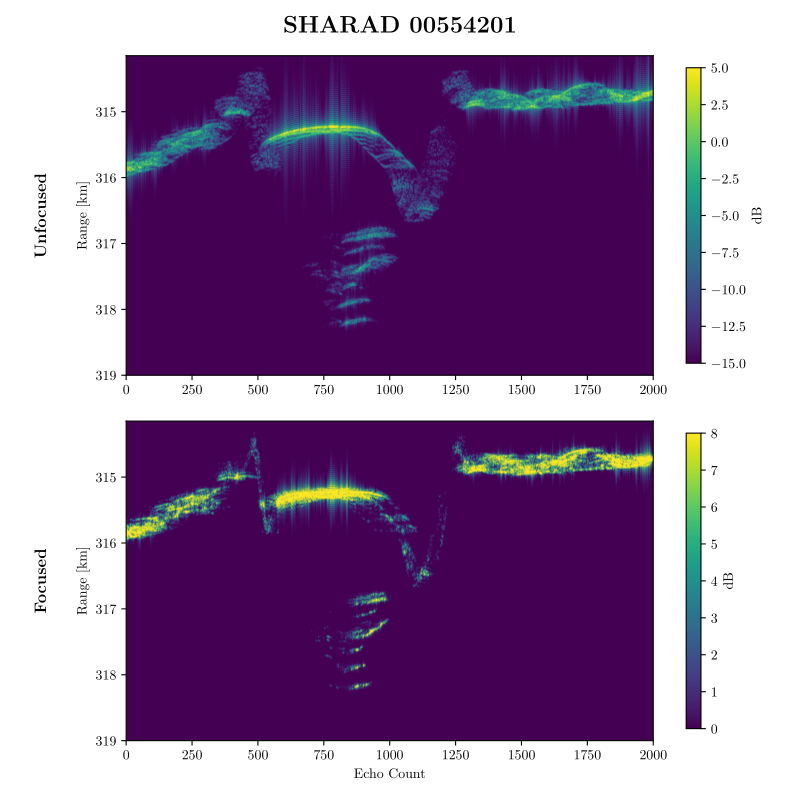
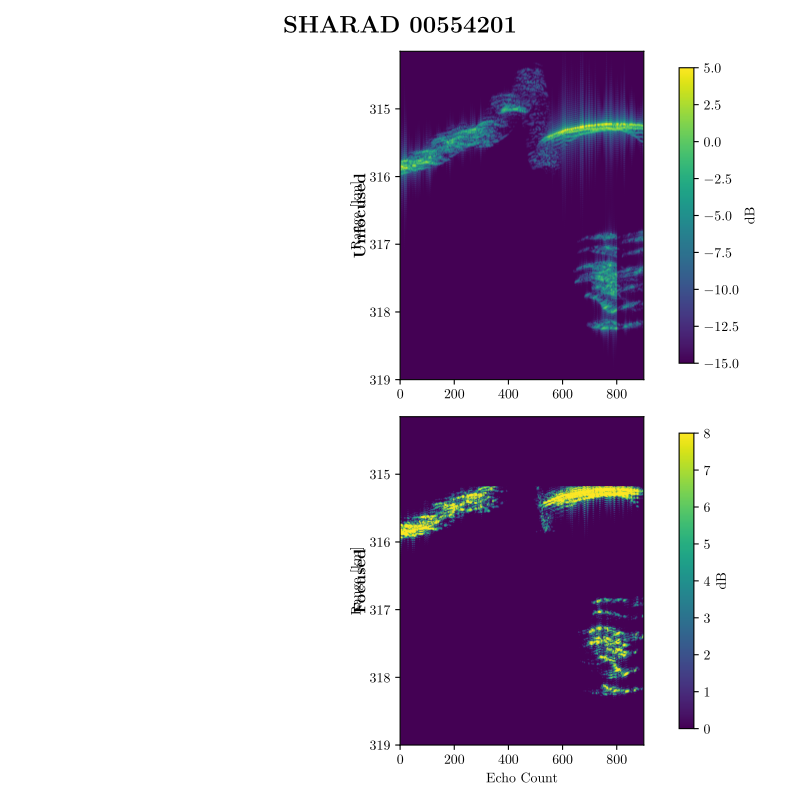
Adaptive Subsurface Gain

diff --git a/examples/KOROLEV/code/params.py b/examples/KOROLEV/code/params.py
@@ -64,7 +64,11 @@ with open("data/params.pkl", 'wb') as hdl:
 NS = 2000
 sharad_data_path = "data/Observation/rdr-cosharps/r_0554201_001_ss19_700_a.dat"
 data = ku.load_SHARAD_RDR(sharad_data_path, st=18000, en=30000, latmin=70.768, latmax=74.2075)
-ku.rxOpenWindow(data, "data/rx_window_positions", NS)
+#ku.rxOpenWindow(data, "data/rx_window_positions", NS)
+# temp clip
+nfin = 900
+data = data[:nfin]
+ku.rxOpenWindow(data, "data/rx_window_positions", nfin)
 
 # estimate the effective PRF
 duration = data['EPHEMERIS_TIME'][-1] - data['EPHEMERIS_TIME'][0]
@@ -102,6 +106,11 @@ sat_x, sat_y, sat_z = ku.planetocentric_to_cartesian(geometry['SRAD'], geometry[
 # interpolate
 sat_x, sat_y, sat_z = uc.interpolate_sources(NS, sat_x, sat_y, sat_z)
 
+# tmp clip
+sat_x = sat_x[:nfin]
+sat_y = sat_y[:nfin]
+sat_z = sat_z[:nfin]
+
 # convert from KM into M
 sat_x, sat_y, sat_z = uc.km_to_m(sat_x, sat_y, sat_z)
 
@@ -110,6 +119,7 @@ n_hat = ku.sharad_normal(sat_x, sat_y, sat_z, nmult=1)
 
 
 # export as source file and obj
+DIRECTORY = "data/Observation/"
 ku.sources_norms_to_file(DIRECTORY, OBS, sat_x, sat_y, sat_z, n_hat[:, 0], n_hat[:, 1], n_hat[:, 2]) 
 ku.sources_norms_to_obj(DIRECTORY, OBS, sat_x, sat_y, sat_z, n_hat[:, 0], n_hat[:, 1], n_hat[:, 2])
 
@@ -124,7 +134,7 @@ korolev_interior = ku.import_korolev_interior("data/Subsurface/")
 trc, depth = ku.clean_korolev_interior(korolev_interior, aeroid, mola, eps=3.15)
 
 # convert from trace number and depth into many facets
-tx, ty, tz, tnx, tny, tnz = uc.trc_depth_2_facets(trc, depth, aeroid, upsample=2.5, min_depth=0.75)
+tx, ty, tz, tnx, tny, tnz = uc.trc_depth_2_facets(trc, depth, aeroid, upsample=2, min_depth=0.75)
 
 # export
 ku.target_norms_to_obj("data/Subsurface", "KOR_T_MAPPED",

diff --git a/src/PYTHON/unit_convs.py b/src/PYTHON/unit_convs.py
@@ -129,9 +129,9 @@ def trc_depth_2_facets(trc, depth, aeroid, upsample=5, min_depth=None):
         depth_dense = depth_interp(trc_dense)
 
         # interp lat lon
-        lat_interp = interp1d(trc_layer, aeroid['LAT'][trc_layer])
-        lon_interp = interp1d(trc_layer, aeroid['LON'][trc_layer])
-        srad_interp = interp1d(trc_layer, aeroid['SRAD'][trc_layer])
+        lat_interp = interp1d(aeroid['COL'], aeroid['LAT'])
+        lon_interp = interp1d(aeroid['COL'], aeroid['LON'])
+        srad_interp = interp1d(aeroid['COL'], aeroid['SRAD'])
 
         lats = lat_interp(trc_dense)
         lons = lon_interp(trc_dense)
@@ -156,7 +156,7 @@ def trc_depth_2_facets(trc, depth, aeroid, upsample=5, min_depth=None):
         cx_hat, cy_hat, cz_hat = normalize(cx, cy, cz, parts=True)
 
         # get across track offsets
-        half_width = 1000  # meters (example)
+        half_width = 1500  # meters (example)
         n_width = 41       # number of points across
         offsets = np.linspace(-half_width, half_width, n_width)
 
